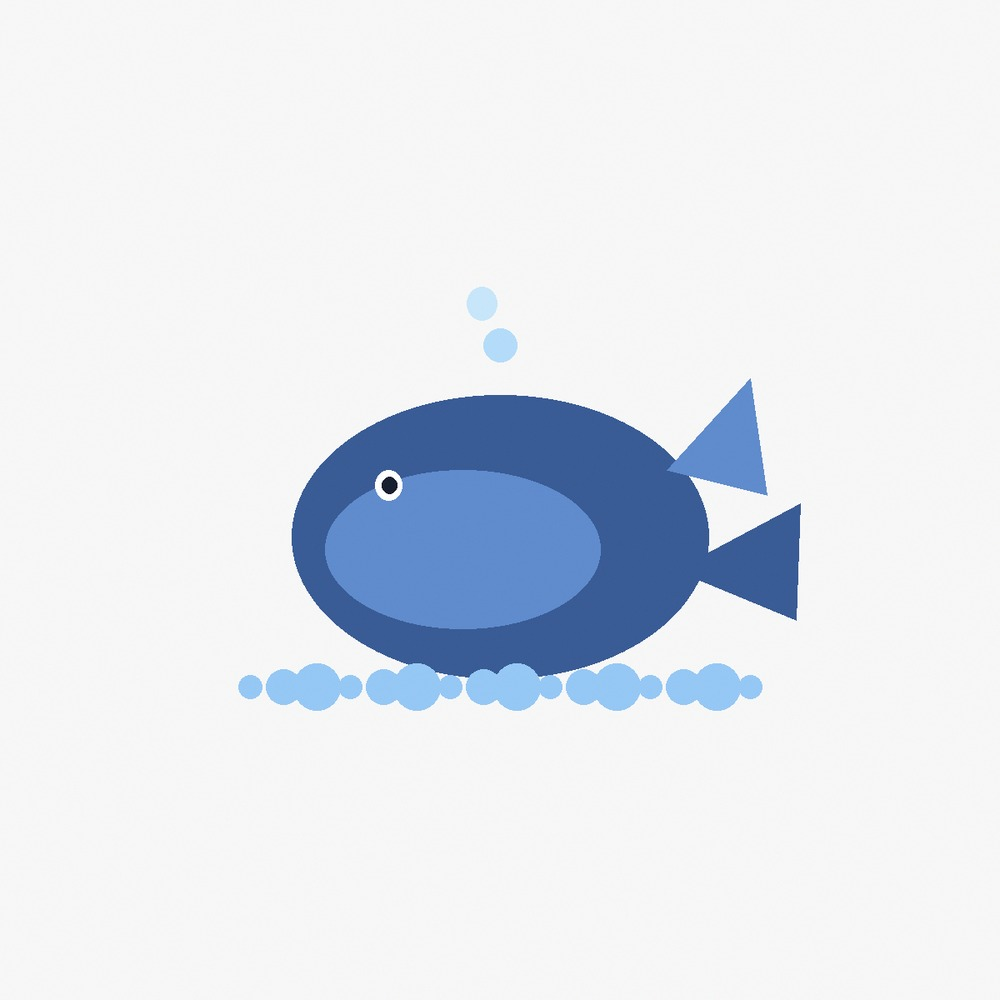
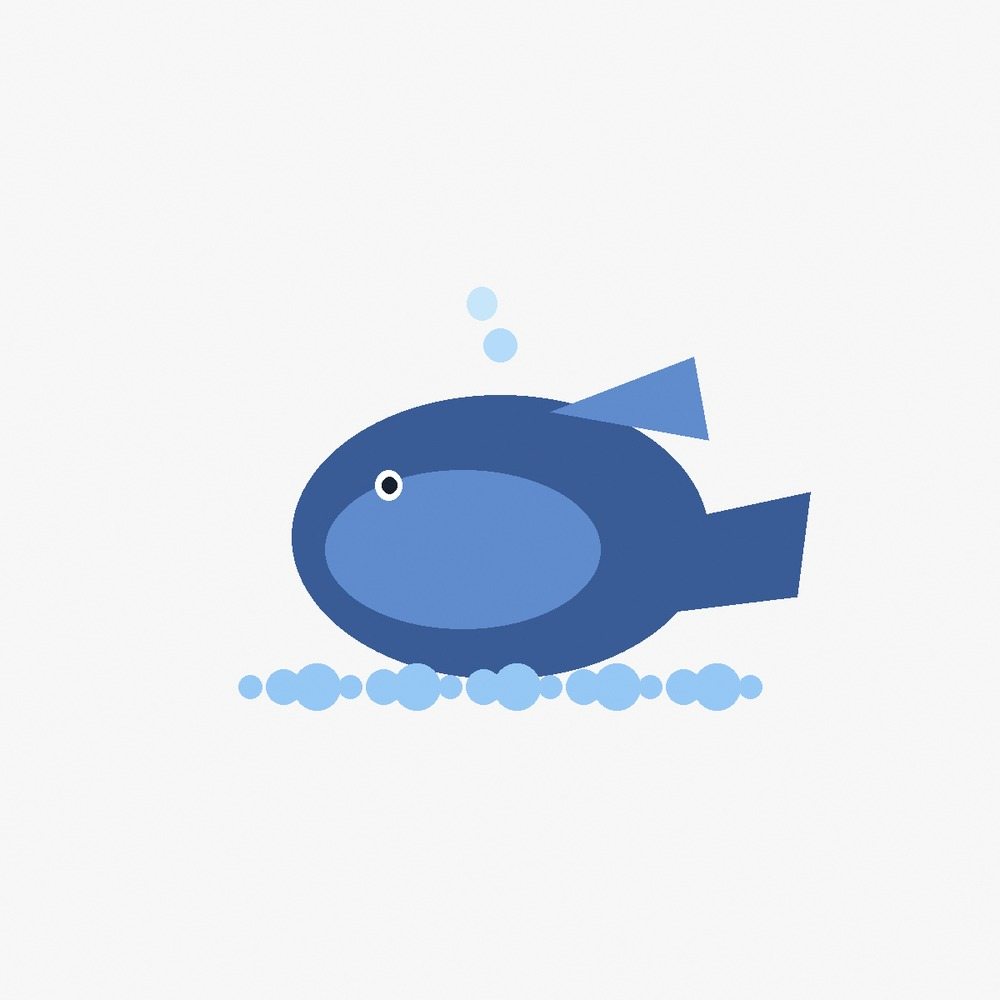
feat(subject): 补齐抠图示例，修 demo 素材的尾巴缺口
- assets/examples/subject.jpg 补上，README 五图并排
- whale_white 源图改成单连通实心尾巴：早先尾鳍与身体之间有开口凹口，
  u2net 判成背景抠穿，cleanup_alpha 只填封闭空洞管不到
- make_examples 加 subject 任务；没有 rembg 时只跳过这一张，不中断整体
- README 补 u2net 模型的手动放置路径与验证方法

Changed region(s): [[0.558, 0.341, 0.806, 0.62]]

diff --git a/hydro-wallpaper/assets/generate_demo_sources.py b/hydro-wallpaper/assets/generate_demo_sources.py
@@ -182,11 +182,25 @@ def demo_subject(path):
     body = (58, 92, 150)
     light = (96, 140, 205)
 
-    # 一只圆润的小鲸鱼：主体轮廓清晰，方便 rembg 抠
+    # 一只圆润的小鲸鱼：主体轮廓清晰，方便 rembg 抠。
+    #
+    # 尾巴一次画成**单一实心多边形**，并且和身体大幅重叠（起点 x 落在椭圆内部）。
+    # 试过两次都不行，记在这里免得再踩：
+    #   1) 两个三角形之间留楔形空白 -> u2net 判成背景，尾巴中间一个洞
+    #   2) 补一块桥接多边形 -> 凹口是**开口**的，cleanup_alpha 只填封闭空洞，仍然漏
+    # 结论：对 rembg 来说，主体最好是"单连通、无凹口"的形状。
+    # 真实摄影素材不满足这条也能用（u2net 认得语义对象），但 demo 素材
+    # 是纯几何色块，模型只能靠轮廓判断，所以必须做得干净。
+    d.polygon([
+        (cx + 120, cy + 20),      # 根部深埋进椭圆，保证连通
+        (cx + 372, cy - 34),      # 尾鳍上尖
+        (cx + 356, cy + 92),      # 尾鳍下尖
+        (cx + 126, cy + 120),
+    ], fill=body)
     d.ellipse([cx - 250, cy - 150, cx + 250, cy + 190], fill=body)
     d.ellipse([cx - 210, cy - 60, cx + 120, cy + 130], fill=light)
-    d.polygon([(cx + 210, cy + 60), (cx + 360, cy - 20), (cx + 355, cy + 120)], fill=body)
-    d.polygon([(cx + 200, cy - 60), (cx + 300, cy - 170), (cx + 320, cy - 30)], fill=light)
+    # 背鳍：底边整条压在椭圆上，同样不留凹口
+    d.polygon([(cx + 60, cy - 130), (cx + 232, cy - 196), (cx + 250, cy - 96)], fill=light)
     # 眼睛
     d.ellipse([cx - 150, cy - 60, cx - 118, cy - 24], fill=(255, 255, 255))
     d.ellipse([cx - 142, cy - 52, cx - 124, cy - 32], fill=(24, 32, 48))

diff --git a/hydro-wallpaper/assets/make_examples.py b/hydro-wallpaper/assets/make_examples.py
@@ -1,4 +1,4 @@
-# -*- coding: utf-8 -*-
+# -*- coding: utf-8 -*-
 """
 make_examples.py — 用 assets/src 里的原创源图批量生成 README 用的示例图。
 
@@ -78,11 +78,24 @@ def examples(only=None):
                             "-o", OUT / "_t_splice.png",
                             "--width", W, "--height", H, "--focus-y", 0.30]))
 
+    # 5. subject —— 抠白底主体。需要 rembg + u2net 模型，缺了只跳过这一张。
+    jobs.append(("subject", [PY, ENGINE, SRC / "whale_white.jpg",
+                             "-o", OUT / "_t_subject.png",
+                             "--width", W, "--height", H, "--anchor", 0.42,
+                             "--mode", "subject", "--subject-model", "u2net"]))
+
     for name, cmd in jobs:
         if only and only != name:
             continue
         print(f"[{name}]")
-        run(cmd)
+        try:
+            run(cmd)
+        except SystemExit:
+            if name == "subject":
+                print("  ! subject 需要 rembg + u2net 模型，已跳过。"
+                      "装法见 README「安装」一节。", flush=True)
+                continue
+            raise
         shrink(OUT / f"_t_{name}.png", OUT / f"{name}.jpg")
         os.remove(OUT / f"_t_{name}.png")
 

diff --git a/hydro-wallpaper/README.md b/hydro-wallpaper/README.md
@@ -6,14 +6,15 @@
 比例、分辨率、延伸方式全部由调用时指定。纯确定性图像处理，不依赖 AI 生成，几秒出图。
 
 <p align="center">
-  <img src="assets/examples/extend.jpg" width="24%" alt="extend 取色延展">
-  <img src="assets/examples/blur.jpg" width="24%" alt="blur 模糊填充">
-  <img src="assets/examples/sunset.jpg" width="24%" alt="blur-mix 叠化">
-  <img src="assets/examples/splice.jpg" width="24%" alt="splice_blur 双图拼接">
+  <img src="assets/examples/extend.jpg" width="19%" alt="extend 取色延展">
+  <img src="assets/examples/blur.jpg" width="19%" alt="blur 模糊填充">
+  <img src="assets/examples/sunset.jpg" width="19%" alt="blur-mix 叠化">
+  <img src="assets/examples/splice.jpg" width="19%" alt="splice_blur 双图拼接">
+  <img src="assets/examples/subject.jpg" width="19%" alt="subject 抠图">
 </p>
 
 <p align="center">
-  <sub>从左到右：extend 取色延展 · blur 模糊填充 · blur-mix 叠化 · splice_blur 双图拼接</sub><br>
+  <sub>从左到右：extend 取色延展 · blur 模糊填充 · blur-mix 叠化 · splice_blur 双图拼接 · subject 抠图</sub><br>
   <sub>示例源图由 <code>assets/generate_demo_sources.py</code> 程序化生成，100% 原创，可自行复现</sub>
 </p>
 
@@ -51,16 +52,11 @@ python scripts/hydro_engine.py photo.png -o out.png --anchor 0.42 --blur-mix 0.5
 
 ## 安装
 
-只需要 Python 3.9+。本技能是 [Myskill](../) 仓库里的一个子目录：
+只需要 Python 3.9+。
 
 ```bash
-# 方式一：clone 整个技能集，用其中一个
-git clone https://github.com/shinayaaa/Myskill.git
-cd Myskill/hydro-wallpaper
-
-# 方式二：只要这一个（稀疏检出，不下载其他技能）
-git clone --depth 1 --filter=blob:none --sparse https://github.com/shinayaaa/Myskill.git
-cd Myskill && git sparse-checkout set hydro-wallpaper && cd hydro-wallpaper
+git clone https://github.com/YOUR_NAME/hydro-wallpaper.git
+cd hydro-wallpaper
 
 # 核心依赖（extend / blur / 裁切特写 / splice_blur 够用）
 pip install numpy pillow
@@ -78,6 +74,17 @@ pip install rembg onnxruntime
 > ```bash
 > python scripts/download_u2net.py
 > ```
+>
+> 已经用别的途径下好了？直接把 `u2net.onnx` 放到下面这个位置即可，
+> 不需要重下（rembg 会认这个路径）：
+>
+> | 平台 | 放这里 |
+> | --- | --- |
+> | Windows | `%USERPROFILE%\.rembg\models\u2net\u2net.onnx` |
+> | Linux / macOS | `~/.rembg/models/u2net/u2net.onnx` |
+>
+> 验证是否装好：`python -c "from rembg import new_session; new_session('u2net'); print('ok')"`
+> 能打印 `ok` 且**没有下载进度条**就是到位了。
 
 也可以一键建独立虚拟环境（不污染系统 Python）：
 
@@ -386,11 +393,9 @@ hydro-wallpaper/
 │   ├── src/                      # demo 源图
 │   └── examples/                 # README 效果图
 ├── setup_env.py             # 一键建独立虚拟环境
-├── SKILL.md                 # 给 AI Agent 用的技能描述
+├── LICENSE                  # MIT
 └── README.md
 ```
-
-本目录是 [Myskill](../) 仓库的一个技能，许可继承仓库根目录的 [MIT](../LICENSE)。
 
 ## 已知限制
 
@@ -409,4 +414,4 @@ hydro-wallpaper/
 
 ## License
 
-[MIT](../LICENSE)（继承 [Myskill](../) 仓库根目录的许可）
+[MIT](LICENSE)

diff --git a/README.md b/README.md
@@ -11,6 +11,16 @@
 | --- | --- | --- | --- |
 | **hydro-wallpaper** | 把任意一张图做成「氢桌面」风格壁纸：上图 + 从图里长出来的延伸背景 | numpy + Pillow（抠图另需 rembg）| [`hydro-wallpaper/`](hydro-wallpaper/) |
 
+<p align="center">
+  <img src="hydro-wallpaper/assets/examples/extend.jpg" width="19%" alt="extend 取色延展">
+  <img src="hydro-wallpaper/assets/examples/blur.jpg" width="19%" alt="blur 模糊填充">
+  <img src="hydro-wallpaper/assets/examples/sunset.jpg" width="19%" alt="blur-mix 叠化">
+  <img src="hydro-wallpaper/assets/examples/splice.jpg" width="19%" alt="splice_blur 双图拼接">
+</p>
+
+<p align="center">
+  <sub>hydro-wallpaper 的四种输出：取色延展 · 模糊填充 · 叠化 · 双图拼接</sub>
+</p>
 
 ## 目录约定
 
